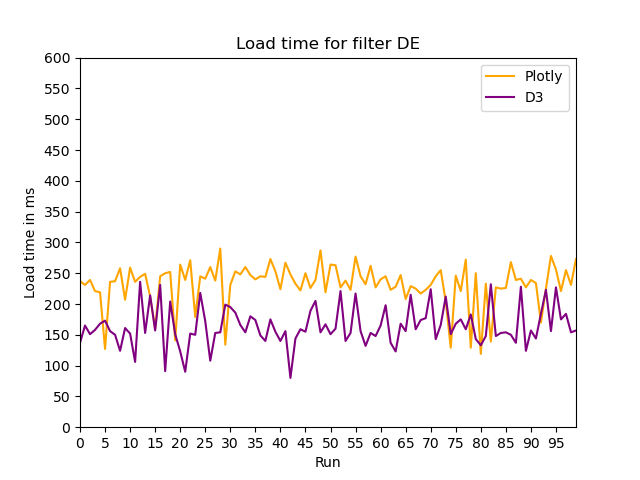
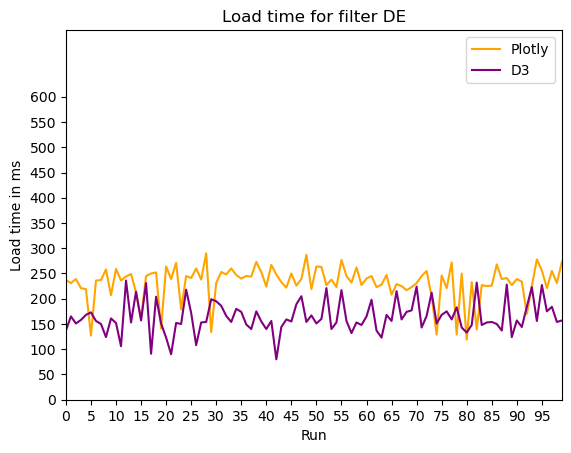
small visual changes etc

Changed region(s): [[0.0, 0.0, 1.0, 0.989]]

diff --git a/pilotData/diffs/filterLine.py b/pilotData/diffs/filterLine.py
@@ -21,7 +21,7 @@ d3Y = d3Df['epoch'].tolist()
 # print(d3Df['epoch'].std())
 
 # set the size of the graph, since the x ticks would be squished otherwise
-# plt.figure(figsize=(9, 6), dpi=80)
+# plt.figure(figsize=(4, 4), dpi=80)
 
 # plt.plot(x, PlY)
 # plt.plot(x, d3Y)
@@ -45,7 +45,8 @@ for filter in filters:
     plt.plot(x, PlY[filters.index(filter)::5], 'orange')
     plt.plot(x, d3Y[filters.index(filter)::5], 'purple')
 
-    plt.ylim(ymin=0)
+    # + 100 to make room for the legend
+    plt.ylim(ymin=0, ymax=max(PlY)+100)
     plt.xlim(xmin=0, xmax=99)
     # -1 since we start from 0
     # plt.xlim(xmax=len(PlY[0::5]))
@@ -55,11 +56,12 @@ for filter in filters:
     plt.yticks(range(0, max(PlY), 50))
 
     # join the array so its string, not list 
+    # plt.figure(figsize=(8, 8), dpi=80)
     plt.title('Load time for filter '+(','.join(filter)))
     plt.xlabel('Run')
     plt.ylabel('Load time in ms')
     # plt.title('load-time for ' + str(len(df)) + ' runs')
     plt.grid(False)
     plt.legend(['Plotly', 'D3'])
-    plt.savefig('../Graphs/filterLine'+str(filters.index(filter))+'.png')
+    plt.savefig('../Graphs/filterLine'+str(filters.index(filter))+'.png', bbox_inches='tight')
     plt.show()

diff --git a/pilotData/diffs/line.py b/pilotData/diffs/line.py
@@ -37,6 +37,7 @@ plt.yticks(range(0, max(PlY), 50))
 plt.xlabel('Run')
 plt.ylabel('Load time in ms')
 # plt.title('load-time for ' + str(len(df)) + ' runs')
+plt.title('Load time mean time')
 plt.grid(False)
 plt.legend(['Plotly', 'D3'])
 plt.savefig('../Graphs/loadTimeDeltaLine.png', bbox_inches='tight')
